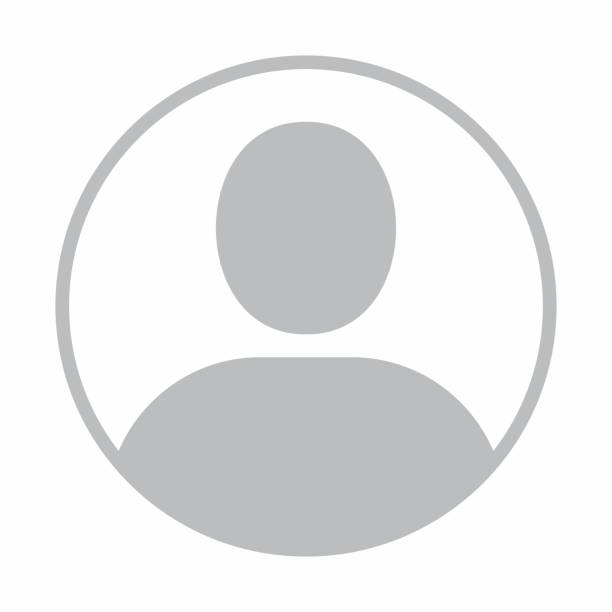
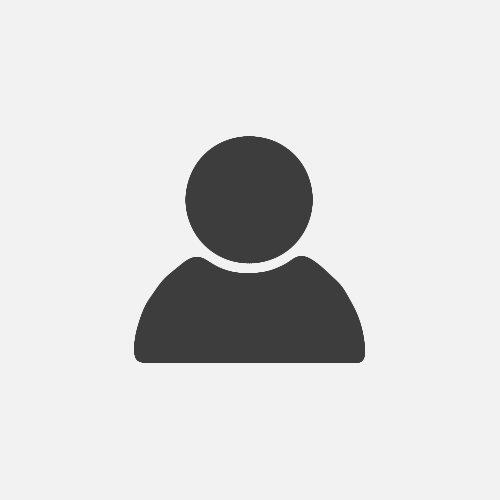
Actualizada la conexion de redux con el back, cambios visuales a la pagina y al componente para editar imagenes ;)

Changed region(s): [[0.09, 0.09, 0.93, 0.93]]

diff --git a/client/src/components/Profile/Profile.tsx b/client/src/components/Profile/Profile.tsx
@@ -1,16 +1,15 @@
-import React, { useEffect, useState } from 'react'
+import React, { useState } from 'react'
 import Nav from 'components/Nav/Nav'
 import styles from "./Profile.module.css"
-import { useAppDispatch, useAppSelector } from 'redux/hooks'
-import imagePlaceholder from "assets/imagePlaceholder.jpg"
+import { useAppSelector } from 'redux/hooks'
+import imagePlaceholderWide from "assets/imagePlaceholderWide.jpg"
 import ImageEditor from './utils/ImageEditor'
 
 interface Profile {
-    setImageEditor: () => any
+    setImageEditor: () => Boolean
 }
 
 export default function Profile() {
-    const dispatch = useAppDispatch()
     const {usuario} : any = useAppSelector(({user})=> user)
     const [imageEditor, setImageEditor] = useState(false)
 
@@ -18,7 +17,7 @@ export default function Profile() {
     <div className={styles.wrapper}>
         <Nav/>
         {
-            imageEditor ? <ImageEditor setImageEditor={setImageEditor}/> : null
+            imageEditor && <ImageEditor setImageEditor={setImageEditor}/>
         }
         <div className={styles.profileWrapper}>
             <div className={styles.cuentaWrapper}>
@@ -26,7 +25,7 @@ export default function Profile() {
                 <h2>modifica o elimina datos</h2>
             </div>
             <div className={styles.infoWrapper}>
-                <img src={usuario.avatar ? usuario.avatar : imagePlaceholder} alt="Profile pic" className={styles.profilePic} onClick={()=> setImageEditor(true)}/>
+                <img src={usuario.avatar ? usuario.avatar : imagePlaceholderWide} alt="Profile pic" className={styles.profilePic} onClick={()=> setImageEditor(true)}/>
                 <div className={styles.infoContainer}>
                     <h3>Nombre del usuario: {usuario.userName} {usuario.lastName}</h3>
                     <h3>Email: {usuario.email}</h3>
@@ -44,43 +43,3 @@ export default function Profile() {
     </div>
   )
 }
-
-{/* <div className={styles.text_wrapper}>
-            <div>
-                <h1>User Details</h1>
-                <h6>Aca podras modificar o eliminar tu cuenta</h6>
-            </div>
-        </div>
-        <div className={styles.info_container}>
-            <div className={styles.image_container}>
-                <img src={usuario.avatar} alt="Avatar" />
-            </div>
-            <div className={styles.info_user}>
-                <div className={styles.name_wrapper}>
-                    <span>Nombre Del usuario:</span>
-                    <span>{usuario.nombre + " " + usuario.apellido} </span>
-                </div>
-                <div>
-                    <span>Email:</span>
-                    <span>{usuario.email} </span>
-                </div>
-                <div>
-                    <span>Cuentas compartidas</span>
-                    <span>PROXIMAMENTE</span>
-                </div>
-                <div className={styles.button_wrapper}>
-                    <button>Eliminar Cuenta</button>
-                </div>
-            </div>
-        </div> 
-        <div className={styles.profileInfo}>
-            <div className={styles.image_cointainer}>
-                <img src={infoUsuario.avatar} alt="foto de perfil" />
-            </div>
-            <div>Nombre: <span>{infoUsuario.nombre}</span></div>
-            <div>Apellido: <span>{infoUsuario.apellido} </span></div>
-            <div>
-                <button>Edit</button>
-                <button>Delete Account</button>
-            </div>
-        </div> */}

diff --git a/client/src/redux/reducers/userReducer.ts b/client/src/redux/reducers/userReducer.ts
@@ -24,7 +24,7 @@ async (user, {rejectWithValue}) => {
 export const loginUser : any = createAsyncThunk("user/loginUser", 
 async (user, {rejectWithValue}) => {
   try {
-    const {data} = await axios.get("/user", {params: user})
+    const {data} = await axios.post("/user/login", user)
     return data
   } catch (err: any) {
     return rejectWithValue(err.response.data)
@@ -37,7 +37,7 @@ async (info: any) => {
   formData.append("file", info.img)
   formData.append("upload_preset", process.env.REACT_APP_UPLOAD_PRESET as string | Blob)  
   const result = await axios.post("https://api.cloudinary.com/v1_1/finanzas-personales/image/upload", formData, {withCredentials: false})
-  const {data} = await axios.put(`/user/${info.id}`, {avatar: result.data.url})
+  const {data} = await axios.put("/user", {id: info.id, key: "avatar", value: result.data.url})
   return data
 })
 
@@ -45,10 +45,6 @@ const reducerSlice = createSlice({
   name: "user",
   initialState,
   reducers: {
-    setUser: (state, action: PayloadAction<User>) => {
-      console.log(action.payload, 'REDUCERRRR')
-      state.usuario = action.payload
-    }
   },
   extraReducers: {
     [registerUser.pending]: (state) => {
@@ -75,7 +71,7 @@ const reducerSlice = createSlice({
     },
     [uploadImage.fulfilled]: (state, {payload}) => {
       state.status = "success"
-      state.usuario.avatar = payload
+      state.usuario[payload.key] = payload.value
     },
     [uploadImage.rejected]: (state) => {
       state.status = "failed"
@@ -83,5 +79,4 @@ const reducerSlice = createSlice({
   }
 })
 
-export const {setUser} = reducerSlice.actions
 export default reducerSlice.reducer

diff --git a/client/src/components/Profile/utils/ImageEditor.tsx b/client/src/components/Profile/utils/ImageEditor.tsx
@@ -30,7 +30,9 @@ function submitImage() {
 }
   return (
     <div className={styles.wrapper}>
-        <div>
+        <div className={styles.topAvatarEditorContainer}>
+            <h1>Your profile photo</h1>
+        </div>
             <Dropzone maxFiles={1} multiple={false} noClick noKeyboard onDrop={handleDrop}>
                 {({ getRootProps, getInputProps }) => (
                 <div {...getRootProps({ className: "dropzone" })} className={styles.dropZone}>
@@ -38,12 +40,11 @@ function submitImage() {
                     {
                         image ? null : <p style={{userSelect: "none", position: "absolute"}}>Suelta tu imagen aquí</p>
                     }
-                    <AvatarEditor ref={handleCropImage} border={image ? 3 : 0} color={[255, 255, 255, 0.9]} image={image} className={styles.avatarEditor} style={image ? {cursor: "grab", borderRadius: "4px"} : {cursor: "default"}}/>
+                    <AvatarEditor ref={handleCropImage} border={image ? 3 : 0} width={300} color={[255, 255, 255, 0.9]} image={image} className={styles.avatarEditor} style={image ? {cursor: "grab", borderRadius: "4px"} : {cursor: "default"}}/>
                 </div>
                 )}
             </Dropzone>
-        </div>
-        <div>
+        <div className={styles.bottomAvatarEditorContainer}>
         <input className={styles.imageInput} accept=".jpg, .jpeg, .png" type="file" multiple={false} onChange={handleImage}/>
         <button className="btn" style={{width: "30%"}} onClick={submitImage}>Aceptar</button>
         </div>

diff --git a/client/src/components/Nav/Nav.tsx b/client/src/components/Nav/Nav.tsx
@@ -2,18 +2,16 @@ import React from 'react'
 import { Link } from 'react-router-dom'
 import { useAppSelector } from 'redux/hooks'
 import styles from "./Nav.module.css"
+import imagePlaceholder from "assets/imagePlaceholder.jpg"
 
 
 export default function Nav() {
 const {usuario} = useAppSelector(({user}) => user)
   return (
     <div className={styles.Nav_wrapper}>
-
         <div className={styles.image_wrapper}>
             <Link to="/profile">
-                <div className={styles.image_cointainer}>
-                    <img src={usuario.avatar} alt="foto de perfil" />
-                </div>
+                <img src={usuario.avatar ? usuario.avatar : imagePlaceholder} className={styles.image_container}alt="foto de perfil"/>
             </Link>
         </div>
         <div className={styles.items_wrapper}>
@@ -37,7 +35,6 @@ const {usuario} = useAppSelector(({user}) => user)
                     <h4>Detalles</h4>
                 </div>
             </Link>
-            
         </div>
     </div>
   )

diff --git a/api/src/routes/routesUser.ts b/api/src/routes/routesUser.ts
@@ -28,7 +28,7 @@ const entriesUpdate = (key: string, value: object) => {
 
 }
 // Funciona como un get para traer toda la data del usuario:
-router.post("/user/loggin", async (req: Request, res: Response) => {
+router.post("/user/login", async (req: Request, res: Response) => {
   try {
     const { email, password } : any = req.body
     const User = await UserNoSqlTemp.findOne({email})
@@ -87,8 +87,6 @@ router.put("/user", async (req: Request, res: Response) => {
   const {id, key, value} = req.body
 
   try {
-    console.log({req})
-
       const result = await UserNoSqlTemp.updateOne({_id: id}, { $set: { [key]: value} });
       // const result = await UserNoSqlTemp.findOneAndUpdate({_id: id}, { [key]: value }).save();
 
@@ -121,7 +119,6 @@ router.delete("/user", async (req: Request, res: Response) => {
 
   UserNoSqlTemp.findByIdAndDelete(id)
   .then((user) => {
-    console.log(user)
     if(user){
       res.status(200).json(`Usuario ${user} eliminado`)
     } else {

diff --git a/client/src/components/Profile/utils/ImageEditor.module.css b/client/src/components/Profile/utils/ImageEditor.module.css
@@ -6,9 +6,10 @@
     height: calc(60vh - 40px);
     border-radius: 10px;
     padding: 40px;
-    background-color: #2e332cbd;
+    background-color: #1d1d1d;
     display: grid;
     grid-template-columns: 1fr;
+    grid-template-rows: 50px 2fr 1fr;
     justify-items: center;
     align-items: center;
 }
@@ -23,3 +24,31 @@
     justify-content: center;
     align-items: center;
 }
+
+ .topAvatarEditorContainer {
+    width: 100%;
+    height: 100%;
+    display:flex;
+    justify-items: left;
+ }
+
+ .bottomAvatarEditorContainer {
+    width: 100%;
+    display: flex;
+    align-items: center;
+    justify-content: space-around;
+ }
+
+ .dropZone{
+    align-self: center;
+    justify-self: center;
+    text-align: center;
+    width: 300px;
+    height: 200px;
+    border: 3px dashed #eeeeee;
+    border-radius: 4px;
+    color: #bdbdbd;      
+    display: flex;
+    justify-content: center;
+    align-items: center;
+ }

diff --git a/api/src/routes/routesUser.js b/api/src/routes/routesUser.js
@@ -32,7 +32,7 @@ const entriesUpdate = (key, value) => {
     */
 };
 // Funciona como un get para traer toda la data del usuario:
-router.post("/user/loggin", (req, res) => __awaiter(void 0, void 0, void 0, function* () {
+router.post("/user/login", (req, res) => __awaiter(void 0, void 0, void 0, function* () {
     try {
         const { email, password } = req.body;
         const User = yield UserNoSql_temp_1.default.findOne({ email });
@@ -94,7 +94,6 @@ router.post("/user", (req, res) => __awaiter(void 0, void 0, void 0, function* (
 router.put("/user", (req, res) => __awaiter(void 0, void 0, void 0, function* () {
     const { id, key, value } = req.body;
     try {
-        console.log({ req });
         const result = yield UserNoSql_temp_1.default.updateOne({ _id: id }, { $set: { [key]: value } });
         // const result = await UserNoSqlTemp.findOneAndUpdate({_id: id}, { [key]: value }).save();
         result

diff --git a/client/src/components/Profile/Profile.module.css b/client/src/components/Profile/Profile.module.css
@@ -15,27 +15,34 @@ h3 {
 }
 
 .cuentaWrapper {
-    padding-top: 15vh;
+    color: black;
+    padding: 15vh 5%;
+    width: calc(100% - 10%);
+    background-color: #FFFFFF;
+}
+.cuentaWrapper h1 {
+    font-size: 50px;
 }
 
 .infoWrapper {
     background-color: #2E332C;
     display: grid;
     grid-template-columns: 1fr;
-    grid-template-rows: 1fr 1fr;
+    grid-template-rows: auto 1fr;
     width: 100%;
     justify-items: center;
-}
-
-.profilePic {
-    height: 50vh;
-    cursor: pointer;
+    overflow: auto;
 }
 
 .infoContainer {
     display: flex;
-    padding: 40px 25px 25px 25px;
+    padding: 25px;
     width: calc(100% - 50px);
     flex-direction: column;
     justify-content: space-around;
+}
+    
+.profilePic {
+    width: 100%;
+    cursor: pointer;
 }

diff --git a/client/src/components/Nav/Nav.module.css b/client/src/components/Nav/Nav.module.css
@@ -3,7 +3,7 @@
     height: calc(100vh - 12px);
     width: 150px;
     padding: 6px 14px;
-    background-color: #11101d5f;
+    background-color: #2E332C;
     display: flex;
     flex-direction: column;
 }
@@ -12,14 +12,11 @@
     justify-content: center;
     margin-top: 24px;
 }
-.image_cointainer{
+.image_container{
     width: 100px;
     height: 100px;
-    border-radius: 50%;
-    border: 1px red solid;
-    display: flex;
-    justify-content: center;
-    align-items: center;
+    border-radius: 20%;
+    object-fit: cover;
 }
 .items_wrapper{
     margin: 100px 0 200px 0;

diff --git a/client/src/components/Ingreso/ConDatos.tsx b/client/src/components/Ingreso/ConDatos.tsx
@@ -61,12 +61,6 @@ export default function ConDatos() {
       amount: 0,
     });
   } 
-  //----------------------
-
-  useEffect(() => {
-    //dispatch(loadMockUser());      //carga de user(ej Erik)
-    //dispatch(setUser);
-  }, [dispatch])
 
   return (
     <div>

diff --git a/client/src/index.css b/client/src/index.css
@@ -19,7 +19,7 @@ body {
 
 a{
   text-decoration: none;
-  /* color:wheat; */
+  color:wheat;
 }
 
 code {
